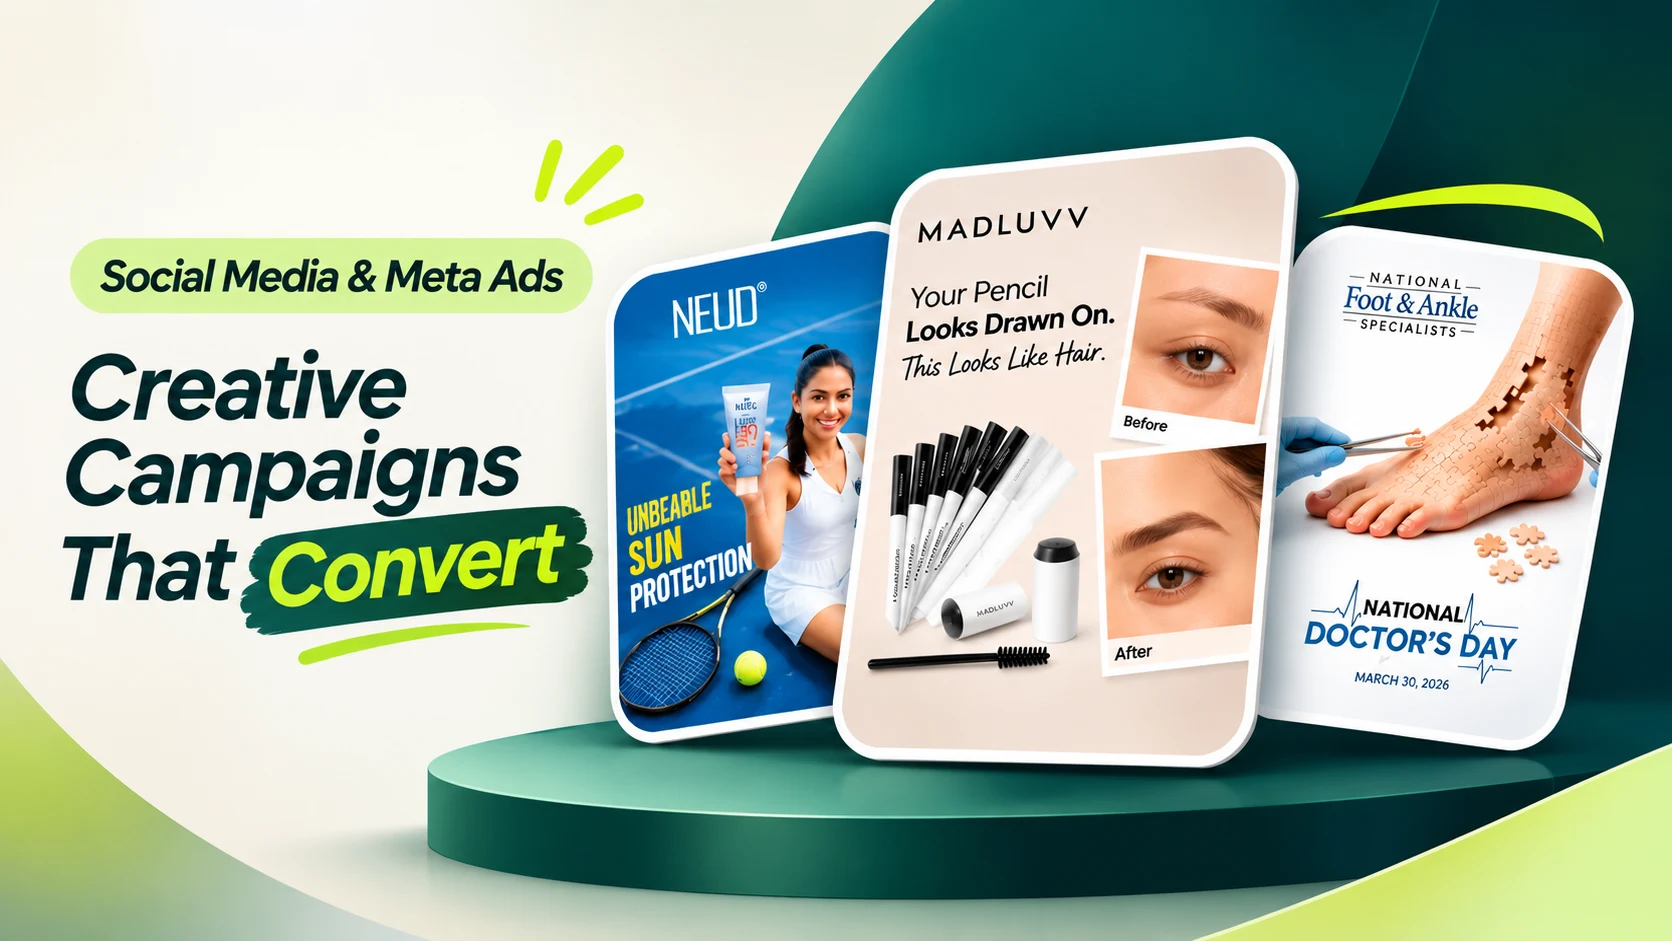
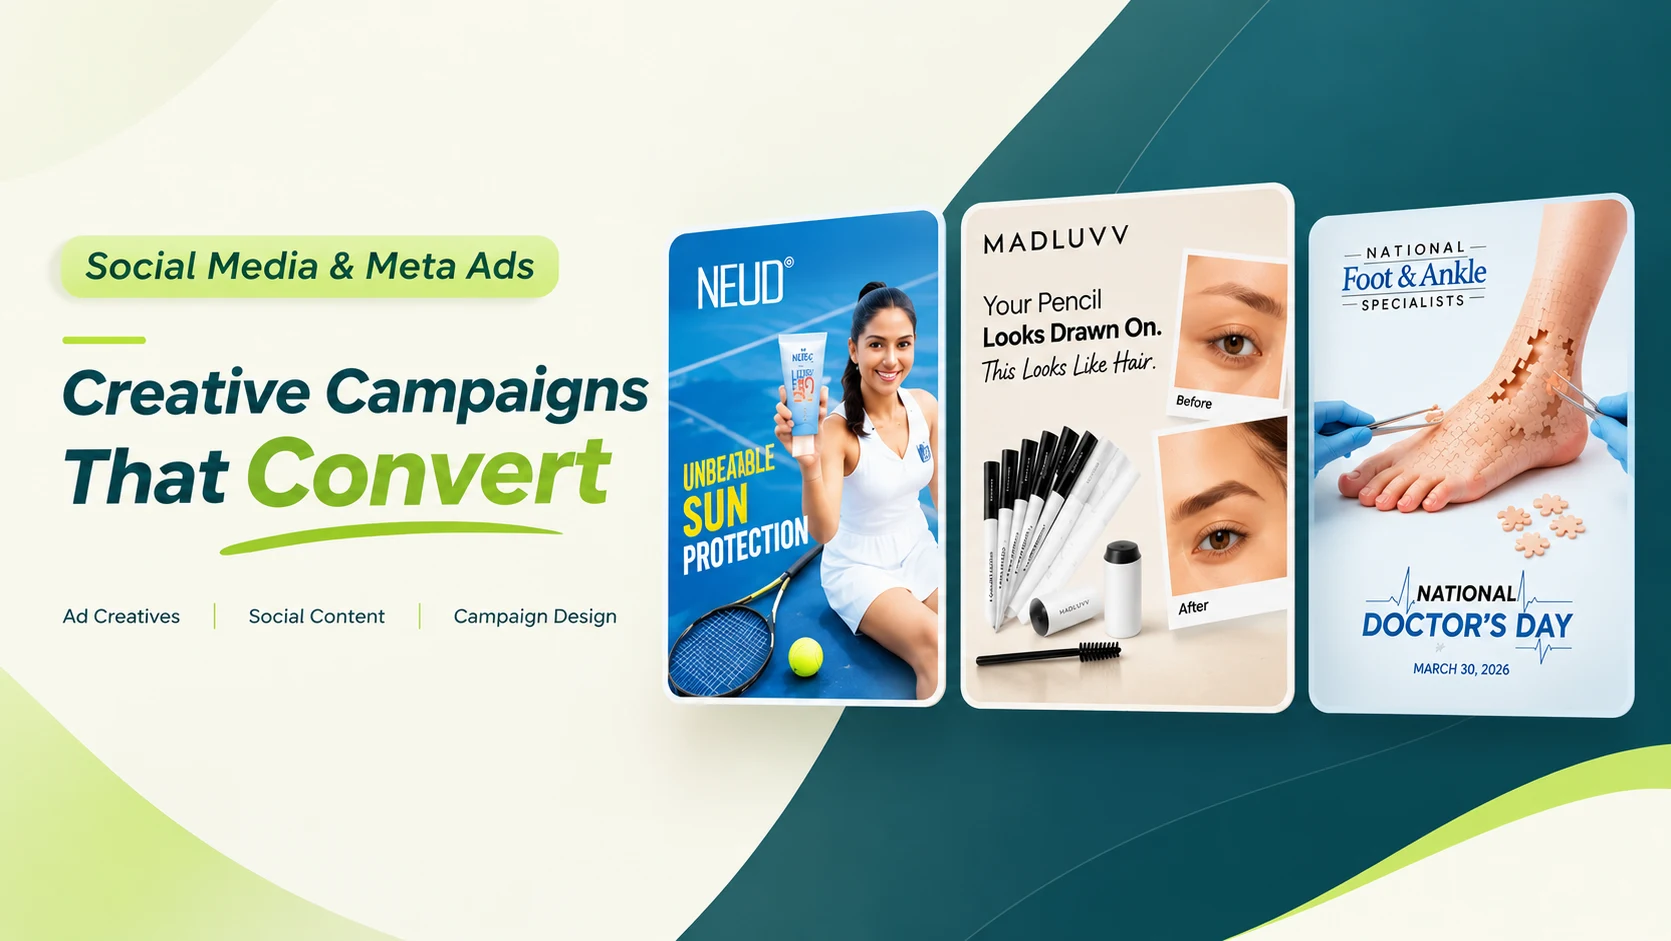
Use final supplied social media campaign image

diff --git a/src/components/home-selected-work.tsx b/src/components/home-selected-work.tsx
@@ -25,8 +25,8 @@ const HOME_WORK = [
     slug: "madluvv-social-media-meta-ads",
     label: "Social Media & Ads",
     description: "Explore our social content, campaign design and Meta ad creative.",
-    image: "/portfolio/madluvv-social-media-meta-ads/home-campaigns-cover.webp?v=20261114-green",
-    ratio: 1672 / 941,
+    image: "/portfolio/madluvv-social-media-meta-ads/home-campaigns-cover.webp?v=20261114-final",
+    ratio: 1671 / 941,
   },
   {
     slug: "sweet-temptation-logo-menu-design",
